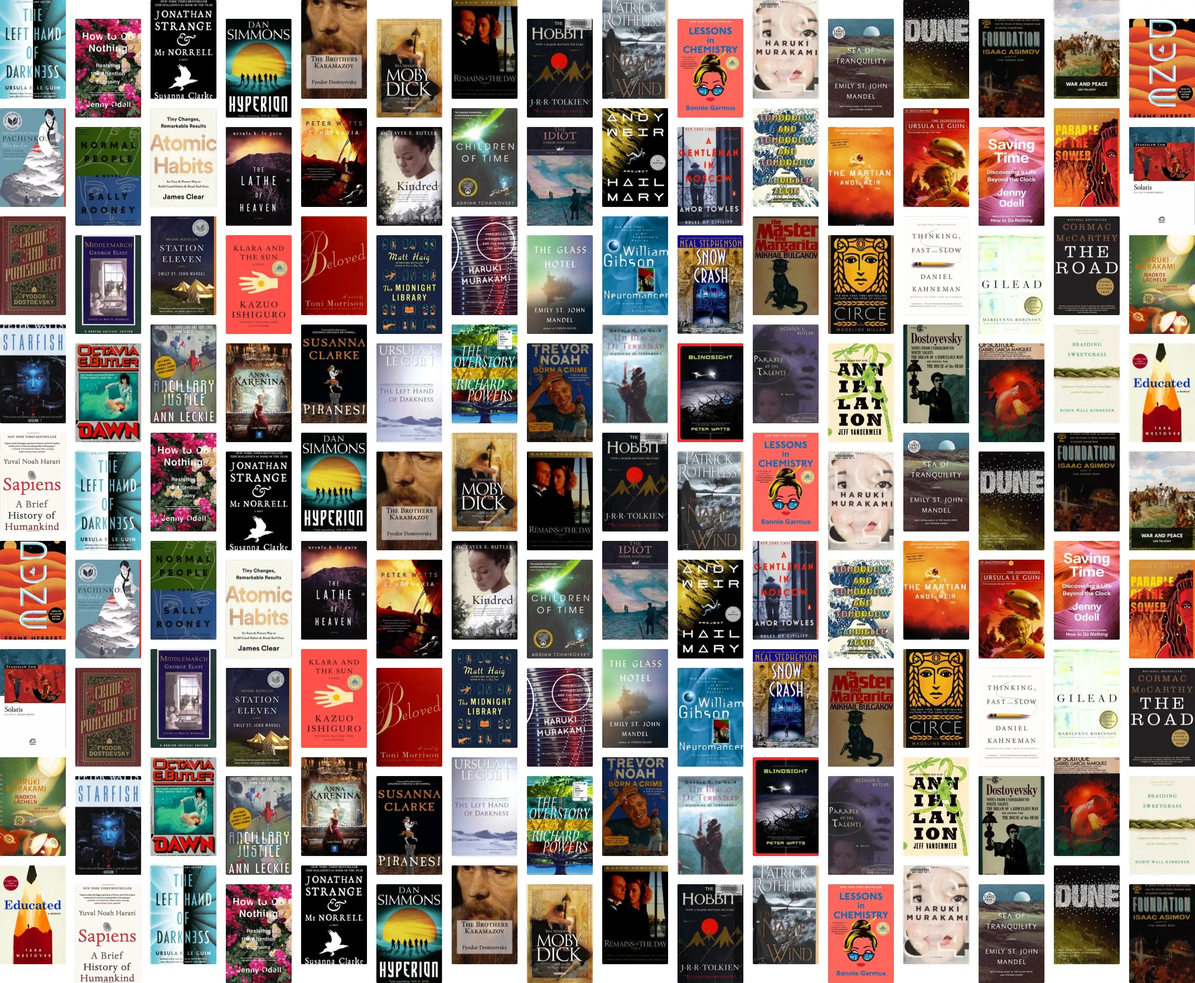
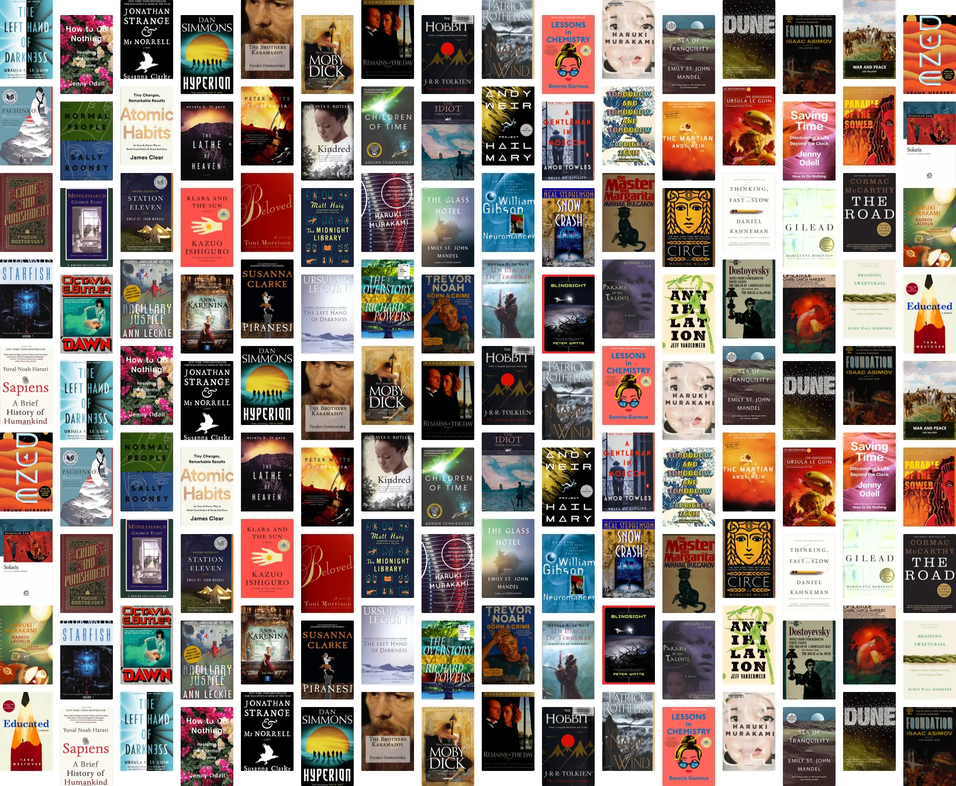
Render the cover wall sharply at 1x and 2x
At full opacity the wall's softness showed. It's now drawn from Open
Library's large covers (~320px wide instead of ~180px) at 1x (545KB) and
2x (1.4MB) for high-density screens, chosen with image-set(). The build
script renders and encodes both.

diff --git a/app/components/cover-wall.tsx b/app/components/cover-wall.tsx
@@ -1,8 +1,8 @@
 // A wall of book covers behind the landing page. It's one pre-drawn
-// image (public/cover-wall.webp, rebuilt by scripts/cover-wall) rather than
-// ~150 separate covers, so the page loads quickly.
+// image (public/cover-wall.webp, and @2x for sharp screens; rebuilt by
+// scripts/cover-wall) rather than ~150 separate covers.
 
-// The grid's size in CSS pixels; the image is drawn a little larger
+// The grid's size in CSS pixels
 const WIDTH = 2032;
 const HEIGHT = 1672;
 
@@ -13,13 +13,8 @@ export default function CoverWall() {
       className="pointer-events-none fixed inset-0 -z-10 overflow-hidden"
     >
       <div
-        className="absolute left-1/2 top-1/2 -translate-x-1/2 -translate-y-1/2 bg-no-repeat"
-        style={{
-          width: WIDTH,
-          height: HEIGHT,
-          backgroundImage: "url(/cover-wall.webp)",
-          backgroundSize: "100% 100%",
-        }}
+        className="cover-wall absolute left-1/2 top-1/2 -translate-x-1/2 -translate-y-1/2 bg-no-repeat"
+        style={{ width: WIDTH, height: HEIGHT, backgroundSize: "100% 100%" }}
       />
     </div>
   );

diff --git a/app/styles/tailwind.css b/app/styles/tailwind.css
@@ -197,3 +197,12 @@ button#demo-customized-button {
 .summary {
   white-space: pre-wrap;
 }
+
+/* Landing page cover wall: 1x for regular screens, 2x for sharp ones */
+.cover-wall {
+  background-image: url("/cover-wall.webp");
+  background-image: image-set(
+    url("/cover-wall.webp") 1x,
+    url("/cover-wall@2x.webp") 2x
+  );
+}

diff --git a/scripts/cover-wall/build.py b/scripts/cover-wall/build.py
@@ -1,9 +1,10 @@
-"""Rebuilds public/cover-wall.webp, the faded wall behind the landing page.
+"""Rebuilds the cover wall behind the landing page: public/cover-wall.webp
+(1x) and public/cover-wall@2x.webp (for sharp screens).
 
-Fetches each cover from Open Library, lays them out like the old CSS grid
-(16x9 tiles, every other one nudged down), draws a full-color master at
-1.5x with render.swift, then saves it as a 1.25x WebP (~600KB). Run from the
-repo root on a Mac with WebP tools installed (brew install webp):
+Fetches each cover from Open Library at its large size, lays them out like
+the old CSS grid (16x9 tiles, every other one nudged down), draws full-color
+masters with render.swift and encodes them with cwebp. Run from the repo
+root on a Mac with WebP tools installed (brew install webp):
 
     python3 scripts/cover-wall/build.py
 """
@@ -87,15 +88,16 @@ with tempfile.TemporaryDirectory() as tmp:
     work = pathlib.Path(tmp)
     (work / "covers").mkdir()
     for cover in COVERS:
-        url = f"https://covers.openlibrary.org/{cover}"
+        # Large covers (~320px wide) stay sharp in 224px tiles at 2x
+        large = cover.replace("-M.jpg", "-L.jpg")
+        url = f"https://covers.openlibrary.org/{large}"
         data = urllib.request.urlopen(url, timeout=60).read()
         (work / "covers" / cover.replace("/", "_")).write_bytes(data)
     # Step through the list so neighbours rarely repeat
     tiles = [COVERS[(i * 7) % len(COVERS)].replace("/", "_") for i in range(COLUMNS * ROWS)]
     (work / "layout.json").write_text(json.dumps({"cols": COLUMNS, "rows": ROWS, "tiles": tiles}))
-    master = work / "master.jpg"
-    subprocess.run(["swift", str(here / "render.swift"), str(work), str(master), "1.5", "0.95"], check=True)
-    # The page shows the wall at 2032px wide; 1.25x stays sharp on most
-    # high-density screens without tripling the download
-    output = here.parent.parent / "public" / "cover-wall.webp"
-    subprocess.run(["cwebp", "-quiet", "-q", "70", "-m", "6", "-resize", "2540", "0", str(master), "-o", str(output)], check=True)
+    public = here.parent.parent / "public"
+    for scale, name, quality in [("1", "cover-wall.webp", "78"), ("2", "cover-wall@2x.webp", "72")]:
+        master = work / f"master-{scale}x.jpg"
+        subprocess.run(["swift", str(here / "render.swift"), str(work), str(master), scale, "1"], check=True)
+        subprocess.run(["cwebp", "-quiet", "-q", quality, "-m", "6", str(master), "-o", str(public / name)], check=True)
